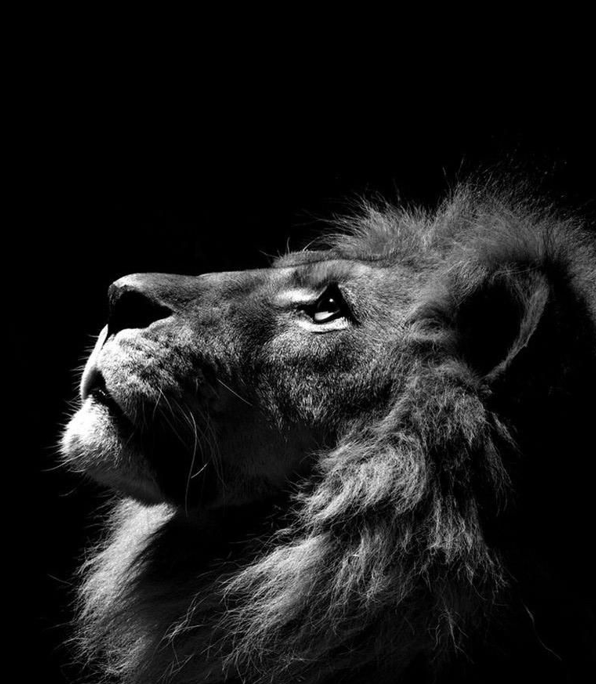
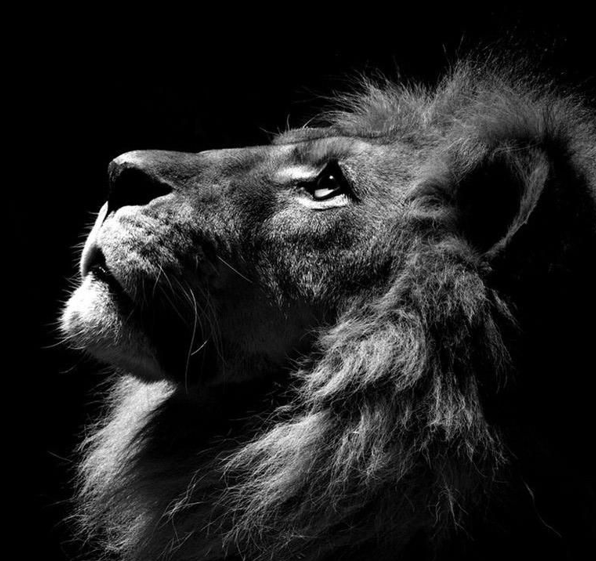
feature all

diff --git a/src/components/Hero.jsx b/src/components/Hero.jsx
@@ -1,5 +1,6 @@
 import React from "react";
 import hero from "../assets/images/lion2.png";
+import hero2 from "../assets/images/lion3.png";
 import { TypeAnimation } from "react-type-animation";
 
 const Hero = () => {
@@ -30,14 +31,17 @@ const Hero = () => {
       id="home"
       className="min-h-screen flex py-10 md:flex-row flex-col items-center"
     >
-      <div className="flex-1 flex items-center justify-center h-full">
-        <img src={hero} alt="" className="md:w-11/12 h-full object-cover" />
+      <div className="flex-1 flex items-center justify-center shadow-black shadow-2xl">
+        <img
+          src={window.innerWidth < 640 ? hero : hero2}
+          alt=""
+          className="md:w-11/12 object-center"
+        />
       </div>
       <div className="flex-1">
         <div className="md:text-left text-center">
           <h1 className="md:text-5xl text-2xl md:leading-normal leading-10 text-white font-bold">
             <span className="text-cyan-600 md:text-6xl text-5xl">
-              {/* <Typed strings={["Hello!"]} typeSpeed={50} backSpeed={200} loop /> */}
               <TypeAnimation
                 sequence={["Hello!", 700, "", 700]}
                 className="text-3xl"
@@ -45,13 +49,6 @@ const Hero = () => {
               />
               <br />
             </span>
-            {/* <Typed
-              className="text-3xl"
-              strings={["I'm Muhammed Aslan"]}
-              typeSpeed={100}
-              backSpeed={100}
-              loop
-            /> */}
             <TypeAnimation
               sequence={["I'm Muhammed Aslan!", 700, "", 700]}
               className="text-3xl"

diff --git a/src/components/Hireme.jsx b/src/components/Hireme.jsx
@@ -1,5 +1,5 @@
 import React from "react";
-import hireMe from "../assets/images/lion.png";
+import hireMe from "../assets/images/hireme3.jpg";
 const Hireme = () => {
   return (
     <section id="hireme" className="py-10 px-3 text-white">
@@ -9,7 +9,7 @@ const Hireme = () => {
         </h3>
         <p className="text-gray-400 mt-3 text-lg">Herhangi Bir İşin Var Mı?</p>
       </div>
-      <div className="bg-gray-700 relative px-8 rounded-2xl py-5 lg:max-w-4xl mx-auto min-h-[24rem] mt-24 flex gap-6 lg:flex-row flex-col-reverse items-center">
+      <div className="bg-gray-700 relative px-8 rounded-2xl py-5 lg:max-w-4xl mx-auto min-h-[24rem] mt-24 flex gap-6 lg:flex-row flex-col-reverse items-center overflow-hidden">
         <div>
           <h2 className="text-2xl font-semibold">
             Benimle Çalışmak İster Misin?
@@ -24,11 +24,13 @@ const Hireme = () => {
             <button className="btn-primary mt-10">Merhaba De! </button>
           </a>
         </div>
-        <img
-          src={hireMe}
-          alt=""
-          className="lg:h-[32rem] h-80 lg:absolute bottom-0 -right-3 object-cover"
-        />
+        <div
+          className={`overflow-hidden bg-yellow-400 rounded-3xl ${
+            window.innerWidth > 1024 ? "w-[40%]" : ""
+          }`}
+        >
+          <img src={hireMe} alt="" className={`object-center h-full`} />
+        </div>
       </div>
     </section>
   );

diff --git a/src/components/Bot.jsx b/src/components/Bot.jsx
@@ -8,7 +8,7 @@ const Bot = () => {
         // href="whatsapp://send?abid=+905357631908&text=Hello%2C%20World!"
         href="https://wa.me/+905357631908"
         target="_blank"
-        className="fixed bottom-5 sm:right-8 right-4 z-[998] cursor-pointer text-white text-4xl bg-green-500 w-16 h-16 flex items-center justify-center rounded-full animate-bounce"
+        className="fixed bottom-5 sm:right-8 right-4 z-[998] cursor-pointer text-white text-4xl bg-green-500 p-2 flex items-center justify-center rounded-full animate-bounce"
       >
         <ion-icon name="logo-whatsapp"></ion-icon>
       </a>
@@ -19,7 +19,7 @@ const Bot = () => {
             behavior: "smooth",
           });
         }}
-        className="fixed bottom-24 sm:right-8 right-4 z-[998] cursor-pointer text-white text-4xl bg-cyan-600 w-16 h-16 flex items-center justify-center rounded-full animate-bounce"
+        className="fixed bottom-24 sm:right-8 right-4 z-[998] cursor-pointer text-white text-4xl bg-cyan-600 p-2 flex items-center justify-center rounded-full animate-bounce"
       >
         <ion-icon name="arrow-up-outline"></ion-icon>
       </div>

diff --git a/src/components/About.jsx b/src/components/About.jsx
@@ -1,6 +1,6 @@
 import React from "react";
 import CountUp from "react-countup";
-import aboutImg from "../assets/images/lion.png";
+import aboutImg from "../assets/images/hacker.png";
 const About = () => {
   const info = [
     { text: "Months experience", count: "45" },
@@ -48,7 +48,7 @@ const About = () => {
             </div>
           </div>
           <div className="flex-1 md:mt-0 mt-6 flex justify-center items-center">
-            <div className="lg:w-96 h-full relative sm:w-10/12 w-11/12 max-w-sm aboutImg ">
+            <div className="lg:w-96 h-full relative sm:w-10/12 w-11/12 max-w-sm aboutImg">
               <img
                 src={aboutImg}
                 alt=""

diff --git a/src/index.css b/src/index.css
@@ -8,14 +8,15 @@ html {
 }
 body {
   @apply box-border bg-black text-gray-100;
+  background-color: #000000;
 }
 .btn-primary {
   @apply bg-cyan-600 font-semibold text-white md:mx-0 mx-auto rounded-full py-3 px-6 flex items-center gap-2;
 }
 
-.aboutImg::after {
+/* .aboutImg::after {
   @apply content-[''] w-full left-0 top-0 rounded-xl rotate-12 h-full absolute bg-gray-600 -z-10;
-}
+} */
 
 .swiper-pagination-bullet {
   @apply bg-white;

diff --git a/src/components/Project.jsx b/src/components/Project.jsx
@@ -56,7 +56,7 @@ const Project = () => {
       <div className="flex max-w-6xl gap-6 px-5 mx-auto items-center relative">
         <div className="lg:w-2/3 w-full">
           <Swiper
-          controller={true}
+            controller={true}
             slidesPerview={1.2}
             spaceBetween={20}
             breakpoints={{
